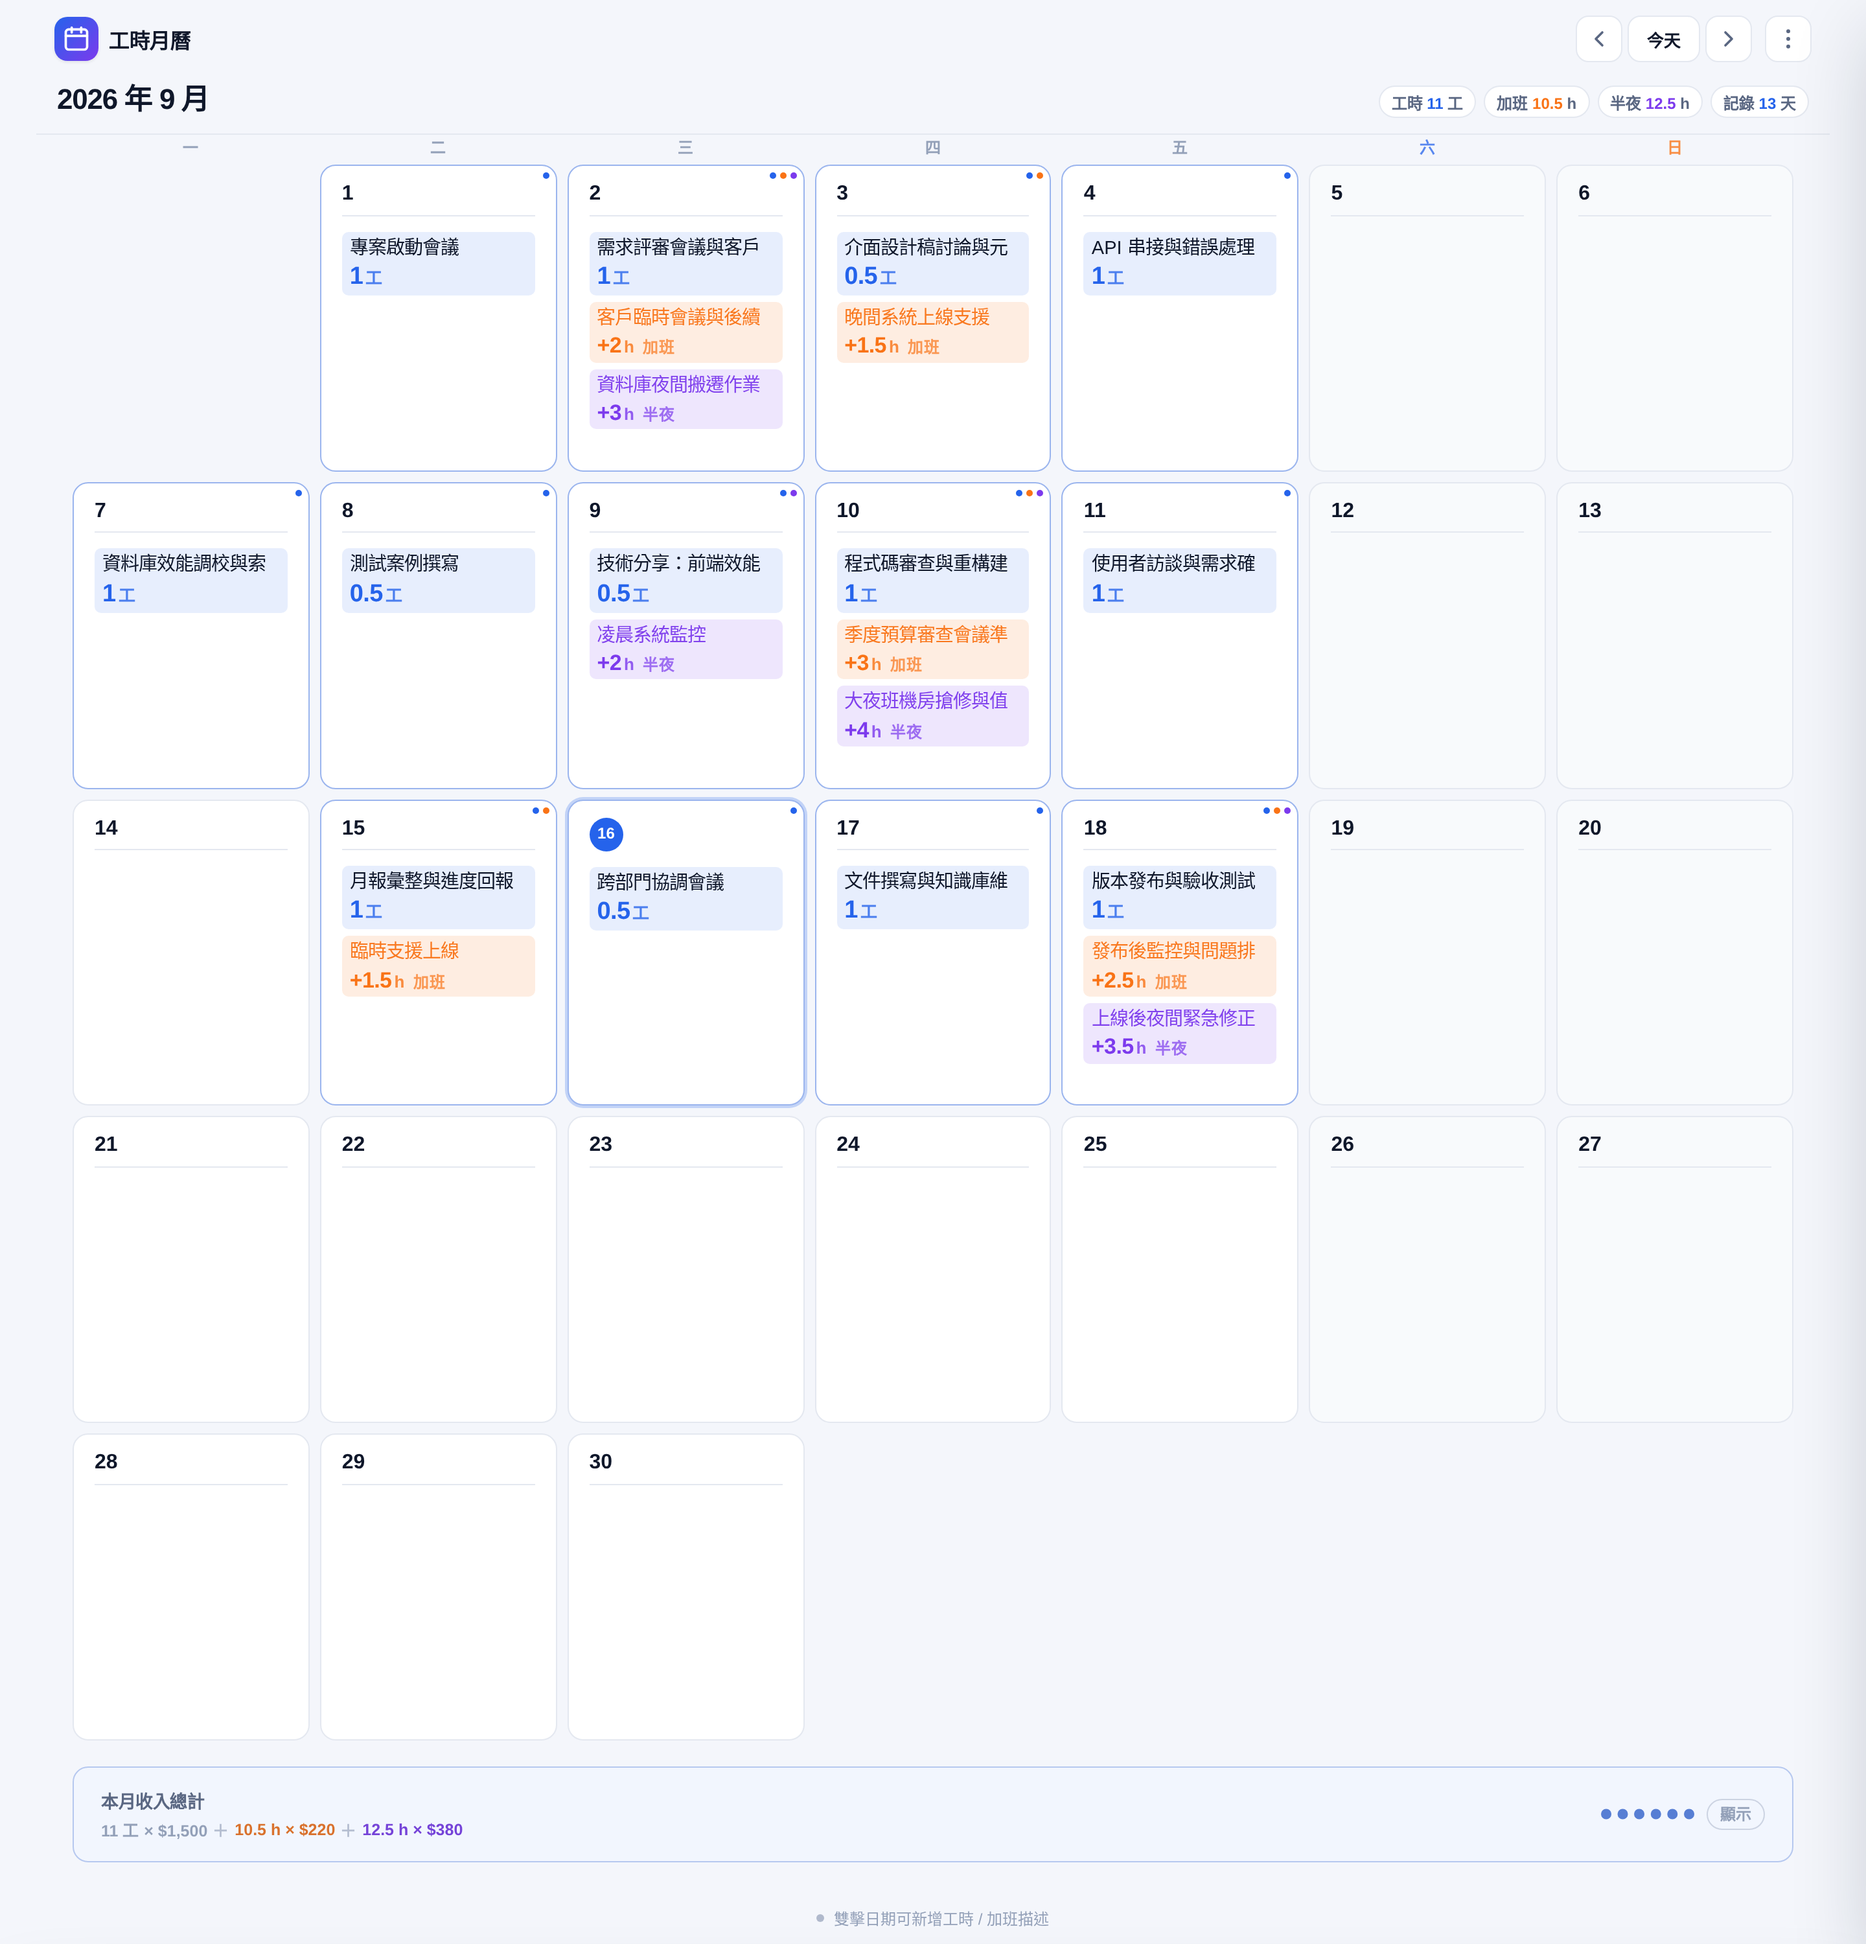
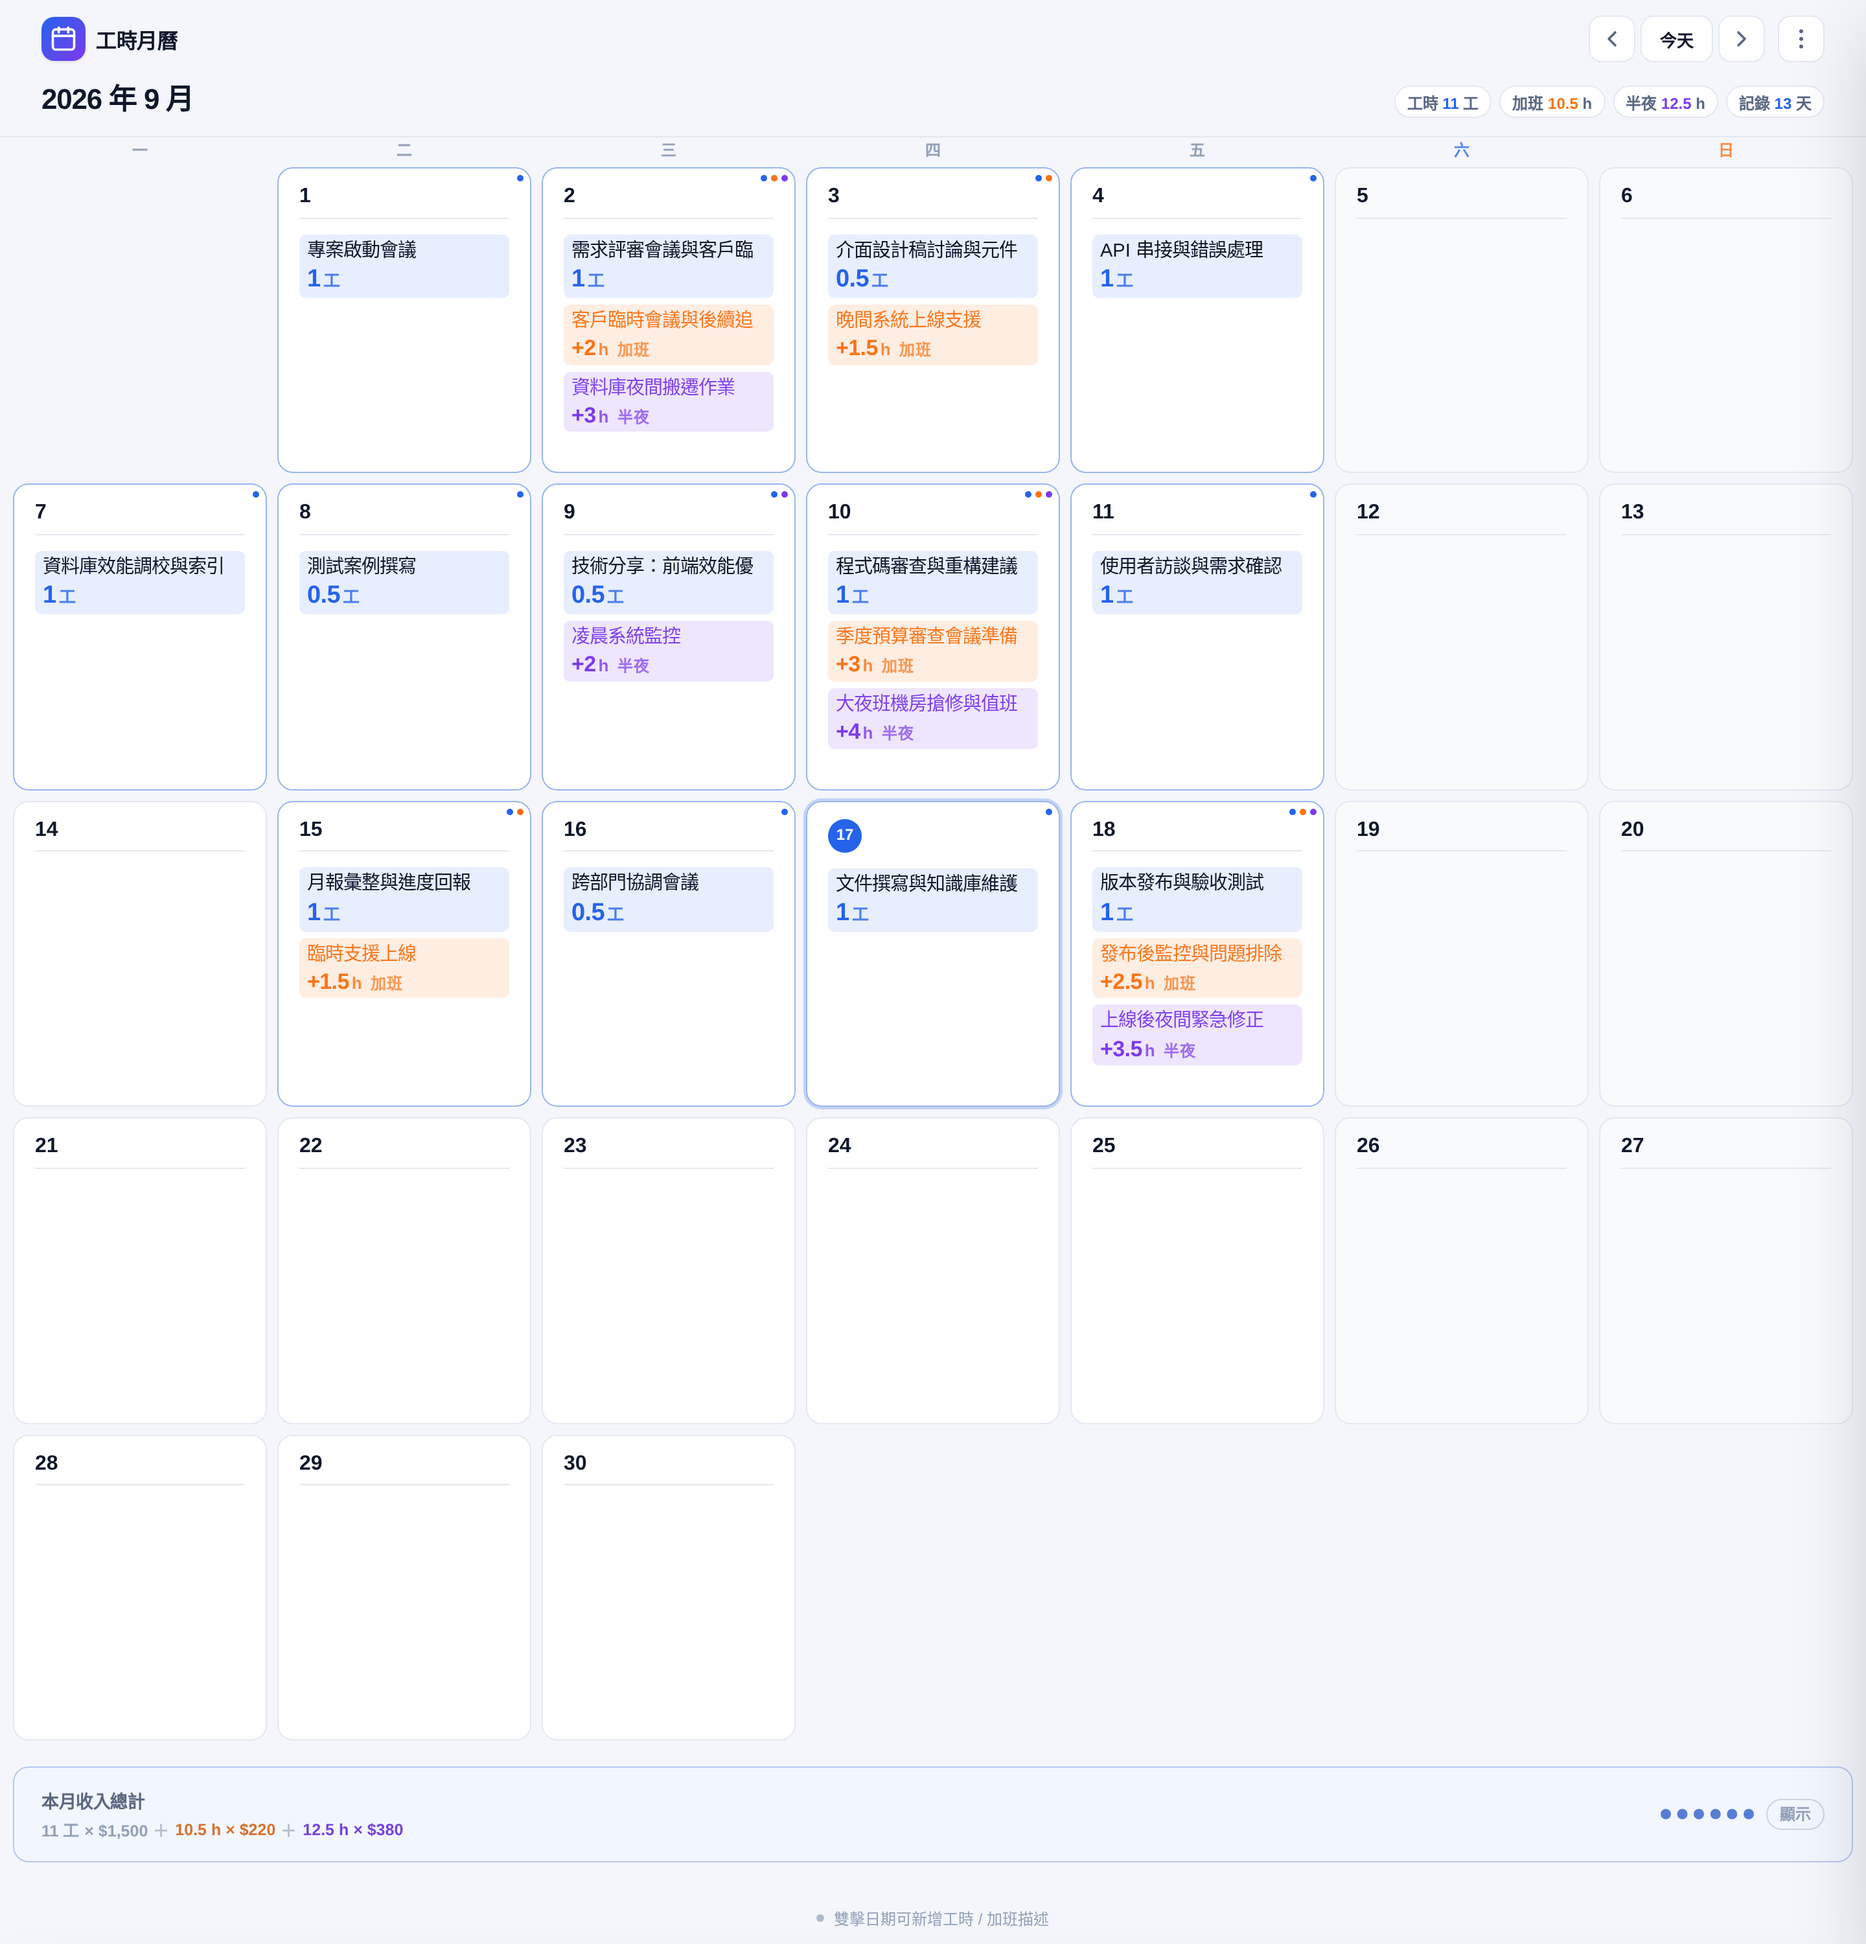
v1.13.1：月曆方格貼齊螢幕左右邊緣，左右留白 10-56px → 2-10px，格內可視寬度 +4~11%

diff --git a/worktime-calendar.standalone.html b/worktime-calendar.standalone.html
@@ -194,7 +194,10 @@ input, textarea { font-family: inherit; }
 
 /* ===================== 月曆 ===================== */
 .calendar-wrap {
-  padding: 0 10px 10px;
+  /* 左右只留 2px：月曆方格要「用盡螢幕寬度」。
+     不再另外預留安全區邊距——貼邊的價值大於呼吸感，
+     且 2px 已足以避免圓角裁切與邊框被切掉的問題。 */
+  padding: 0 2px 10px;
   /* flex: 1 1 auto 讓月曆撐滿剩餘高度；但**不設 min-height: 0**，
      否則當視窗高度不足時，這個 flex 子項會被壓到比內容小，
      導致格子溢出覆蓋收入列。改為由內容決定下限，空間不足時
@@ -1245,8 +1248,10 @@ textarea::placeholder, input::placeholder { color: var(--text-3); }
 }
 
 @media (min-width: 700px) {
-  #app { padding: 0 14px; }
-  .calendar-wrap { padding: 0 14px 14px; }
+  /* 月曆區塊幾乎貼邊；頭部與底部提示維持原有的可讀留白 */
+  .calendar-wrap { padding: 0 3px 14px; }
+  .topbar-inner { padding: 12px 16px 8px; }
+  .month-title-row { padding: 2px 16px 12px; }
   /* 列高改由內容決定（auto）。下限 130px 是「記錄少」時的美觀基準，
      但三組描述全滿的月份內容會超過 130px，把格子撐破 track 而溢出
      到收入列（實測 700px 寬時有 7 個格子越界）。
@@ -1285,8 +1290,11 @@ textarea::placeholder, input::placeholder { color: var(--text-3); }
 
 /* 大螢幕：格子變寬，工數／加班以醒目色塊呈現，用滿橫向空間 */
 @media (min-width: 1000px) {
-  #app { padding: 0 20px; }
-  .calendar-wrap { padding: 0 20px 20px; }
+  /* 大螢幕左右各留 6px：月曆方格要盡量用滿橫向空間，
+     但桌機可能有 15px 寬的垂直捲軸，留 6px 才不會被壓住。 */
+  .calendar-wrap { padding: 0 6px 20px; }
+  .topbar-inner { padding: 12px 24px 8px; }
+  .month-title-row { padding: 2px 24px 12px; }
   /* 列高「理想值」276px 是為了容納最擠的格子（三組描述＋三個色塊）。
      但桌機螢幕的實際可用高度，換算下來每列往往只有 84–142px──
      若把它寫成 minmax(276px, 1fr) 的硬性下限，6 列共需 1656px，
@@ -1357,8 +1365,9 @@ textarea::placeholder, input::placeholder { color: var(--text-3); }
 }
 
 @media (min-width: 1400px) {
-  #app { padding: 0 28px; }
-  .calendar-wrap { padding: 0 28px 24px; }
+  .calendar-wrap { padding: 0 10px 24px; }
+  .topbar-inner { padding: 12px 32px 8px; }
+  .month-title-row { padding: 2px 32px 14px; }
   /* 同 1000px 區塊的理由：改用 minmax(0, 1fr) 讓列高可被真正壓縮，
      並移除 .day 的硬性 min-height，避免 grid item 撐破 track。
      理想列高（約 302px）在空間充足時由 1fr 自然達到。 */
@@ -1727,8 +1736,8 @@ textarea::placeholder, input::placeholder { color: var(--text-3); }
   'use strict';
 
   // 由 bump-version.sh 自動維護
-  const APP_VERSION = '1.13.0';
-  const APP_BUILD = '20260916-2327';
+  const APP_VERSION = '1.13.1';
+  const APP_BUILD = '20260917-0002';
 
   const STORE_KEY = 'worktime-calendar:v1';
   const SETTINGS_KEY = 'worktime-calendar:settings:v1';

diff --git a/styles.css b/styles.css
@@ -180,7 +180,10 @@ input, textarea { font-family: inherit; }
 
 /* ===================== 月曆 ===================== */
 .calendar-wrap {
-  padding: 0 10px 10px;
+  /* 左右只留 2px：月曆方格要「用盡螢幕寬度」。
+     不再另外預留安全區邊距——貼邊的價值大於呼吸感，
+     且 2px 已足以避免圓角裁切與邊框被切掉的問題。 */
+  padding: 0 2px 10px;
   /* flex: 1 1 auto 讓月曆撐滿剩餘高度；但**不設 min-height: 0**，
      否則當視窗高度不足時，這個 flex 子項會被壓到比內容小，
      導致格子溢出覆蓋收入列。改為由內容決定下限，空間不足時
@@ -1231,8 +1234,10 @@ textarea::placeholder, input::placeholder { color: var(--text-3); }
 }
 
 @media (min-width: 700px) {
-  #app { padding: 0 14px; }
-  .calendar-wrap { padding: 0 14px 14px; }
+  /* 月曆區塊幾乎貼邊；頭部與底部提示維持原有的可讀留白 */
+  .calendar-wrap { padding: 0 3px 14px; }
+  .topbar-inner { padding: 12px 16px 8px; }
+  .month-title-row { padding: 2px 16px 12px; }
   /* 列高改由內容決定（auto）。下限 130px 是「記錄少」時的美觀基準，
      但三組描述全滿的月份內容會超過 130px，把格子撐破 track 而溢出
      到收入列（實測 700px 寬時有 7 個格子越界）。
@@ -1271,8 +1276,11 @@ textarea::placeholder, input::placeholder { color: var(--text-3); }
 
 /* 大螢幕：格子變寬，工數／加班以醒目色塊呈現，用滿橫向空間 */
 @media (min-width: 1000px) {
-  #app { padding: 0 20px; }
-  .calendar-wrap { padding: 0 20px 20px; }
+  /* 大螢幕左右各留 6px：月曆方格要盡量用滿橫向空間，
+     但桌機可能有 15px 寬的垂直捲軸，留 6px 才不會被壓住。 */
+  .calendar-wrap { padding: 0 6px 20px; }
+  .topbar-inner { padding: 12px 24px 8px; }
+  .month-title-row { padding: 2px 24px 12px; }
   /* 列高「理想值」276px 是為了容納最擠的格子（三組描述＋三個色塊）。
      但桌機螢幕的實際可用高度，換算下來每列往往只有 84–142px──
      若把它寫成 minmax(276px, 1fr) 的硬性下限，6 列共需 1656px，
@@ -1343,8 +1351,9 @@ textarea::placeholder, input::placeholder { color: var(--text-3); }
 }
 
 @media (min-width: 1400px) {
-  #app { padding: 0 28px; }
-  .calendar-wrap { padding: 0 28px 24px; }
+  .calendar-wrap { padding: 0 10px 24px; }
+  .topbar-inner { padding: 12px 32px 8px; }
+  .month-title-row { padding: 2px 32px 14px; }
   /* 同 1000px 區塊的理由：改用 minmax(0, 1fr) 讓列高可被真正壓縮，
      並移除 .day 的硬性 min-height，避免 grid item 撐破 track。
      理想列高（約 302px）在空間充足時由 1fr 自然達到。 */

diff --git a/app.js b/app.js
@@ -7,8 +7,8 @@
   'use strict';
 
   // 由 bump-version.sh 自動維護
-  const APP_VERSION = '1.13.0';
-  const APP_BUILD = '20260916-2327';
+  const APP_VERSION = '1.13.1';
+  const APP_BUILD = '20260917-0002';
 
   const STORE_KEY = 'worktime-calendar:v1';
   const SETTINGS_KEY = 'worktime-calendar:settings:v1';

diff --git a/sw.js b/sw.js
@@ -8,7 +8,7 @@
  *   4. controllerchange 觸發，頁面重新載入即為新版
  * ========================================================= */
 
-const CACHE = 'worktime-calendar-v1.13.0';
+const CACHE = 'worktime-calendar-v1.13.1';
 const PRECACHE = [
   './',
   './index.html',

diff --git a/README.md b/README.md
@@ -25,7 +25,7 @@
 | **描述優先** | 格子內先顯示描述，時數緊接在下方 |
 | **一組一色塊** | 每格分成三組：**工時描述＋工數**、**加班描述＋加班時數**、**半夜加班描述＋半夜加班時數**。每組是一個獨立色塊（藍／橘／紫），描述與數字上下排列但**共用同一個底色框**，誰對應誰一目了然 |
 | **三描述同時顯示** | 同一天可同時顯示**工時描述**（黑字）、**加班描述**（橘字）、**半夜加班描述**（紫字），彼此不會互相蓋掉 |
-| **滿版版面** | 版面用滿螢幕左右兩側（桌機僅留 20–28px 邊距），格子越寬工數／加班色塊越大 |
+| **滿版版面** | 月曆方格幾乎貼齊螢幕左右邊緣（手機 2px、平板 3px、桌機 6–10px），格子越寬工數／加班色塊越大 |
 | **月度統計** | 月工數、月加班時數、月半夜加班時數（有半夜紀錄時才顯示）、記錄天數 |
 | **收入總計** | 設定日薪、加班時薪、半夜加班時薪後，月曆下方自動計算本月收入（工數 × 日薪 ＋ 加班時數 × 加班時薪 ＋ 半夜加班時數 × 半夜加班時薪）；金額預設遮蔽，點一下才顯示 |
 | **快捷操作** | 觸控裝置單擊即開；`←/→` 切換月份、`T` 回到本月、`⌘/Ctrl+Enter` 儲存 |
@@ -131,12 +131,20 @@ npx http-server -p 8099
 卡片的邊框、圓角與間隙會吃掉約 20% 寬度。改用細格線分隔後，390px 螢幕上每格內容寬度由
 38px 提升至 46px。
 
-| 斷點 | 風格 | 左右邊距 | 格子寬（1600px 時） | 工數字級 | 每則描述行數 | 列高下限 |
+| 斷點 | 風格 | 左右邊距 | 格內內容寬 | 工數字級 | 每則描述行數 | 列高下限 |
 | --- | --- | --- | --- | --- | --- | --- |
-| ≤ 480px | **網格線** | 10px | 52px | 9px | 1 | 由內容決定 |
-| ≥ 700px | 卡片 | 28px | 89px | 14px | 2 | 190px |
-| ≥ 1000px | 卡片 | 40px | 126px | 18px | 2 | 210px |
-| ≥ 1400px | 卡片 | 56px | 177px | 19px | 2 | 230px |
+| ≤ 480px | **網格線** | 2px | 44–54px | 9px | 1 | 由內容決定 |
+| ≥ 700px | 卡片 | 3px | 74–91px | 14px | 2 | 190px |
+| ≥ 1000px | 卡片 | 6px | 108–148px | 18px | 2 | 210px |
+| ≥ 1400px | 卡片 | 10px | 164–324px | 19px | 2 | 230px |
+
+> **左右邊距只留 2–10px**：月曆方格要「用盡螢幕寬度」，留白改由格子本身的
+> 內距（`.day` 的 `padding`）承擔——那部分寬度仍屬於格子，視覺上不浪費。
+> 對比先前的 10–56px，**格內可視寬度增加 4–11%**（手機 +5%、平板 +10%、
+> 桌機 +6–10%）。桌機保留 6–10px 是為了不被 15px 寬的垂直捲軸壓住。
+>
+> 已驗證 320–430px 各寬度下，最左欄與最右欄的文字、色塊都**不會**越出
+> viewport，也不產生水平捲動。
 
 > **列高下限的取捨**：列高下限已改為「放得下三組描述＋三個色塊」的可讀值
 > （190 / 210 / 230px），空間不足時**讓頁面垂直滾動**，而不是壓縮或隱藏內容。
